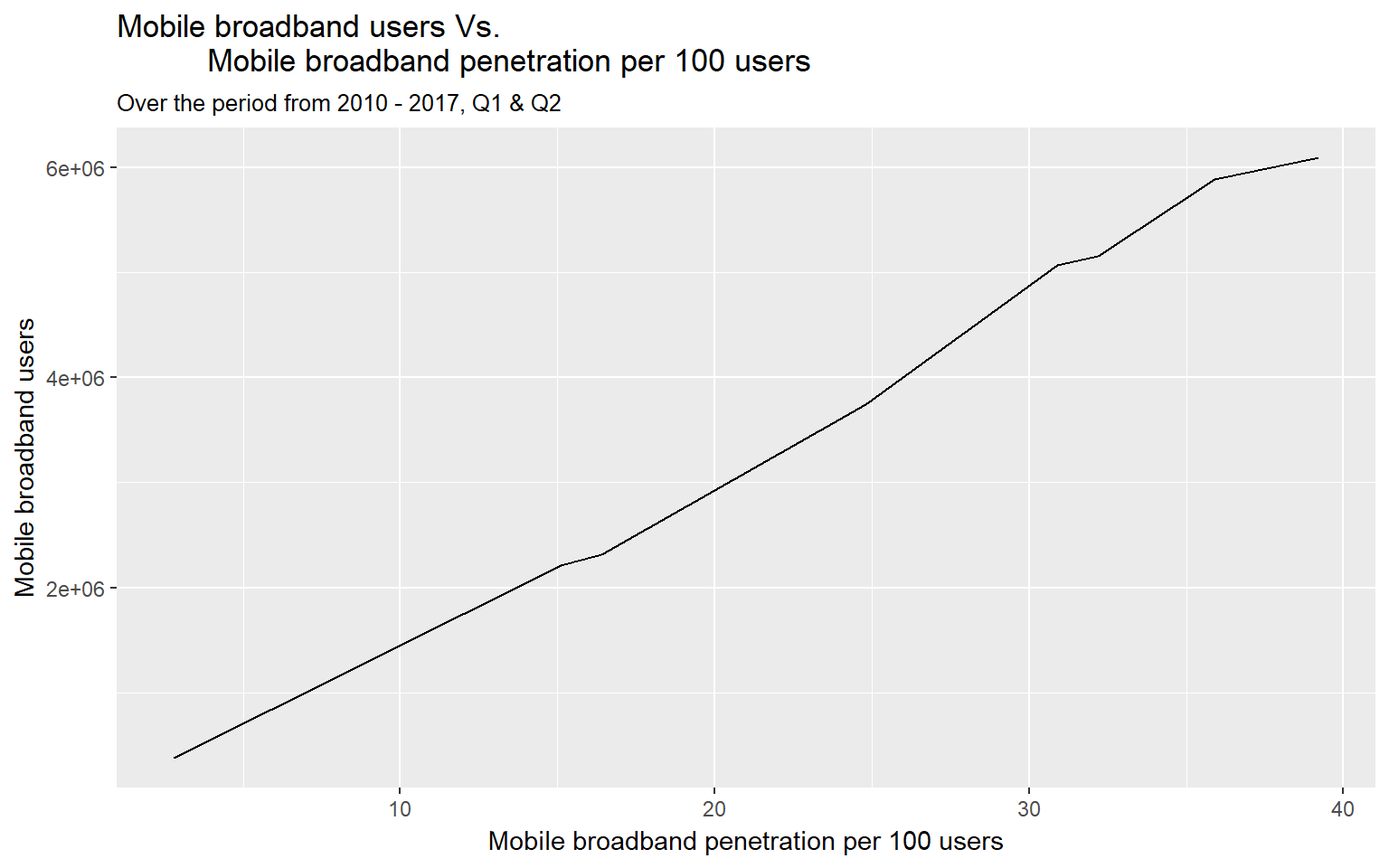
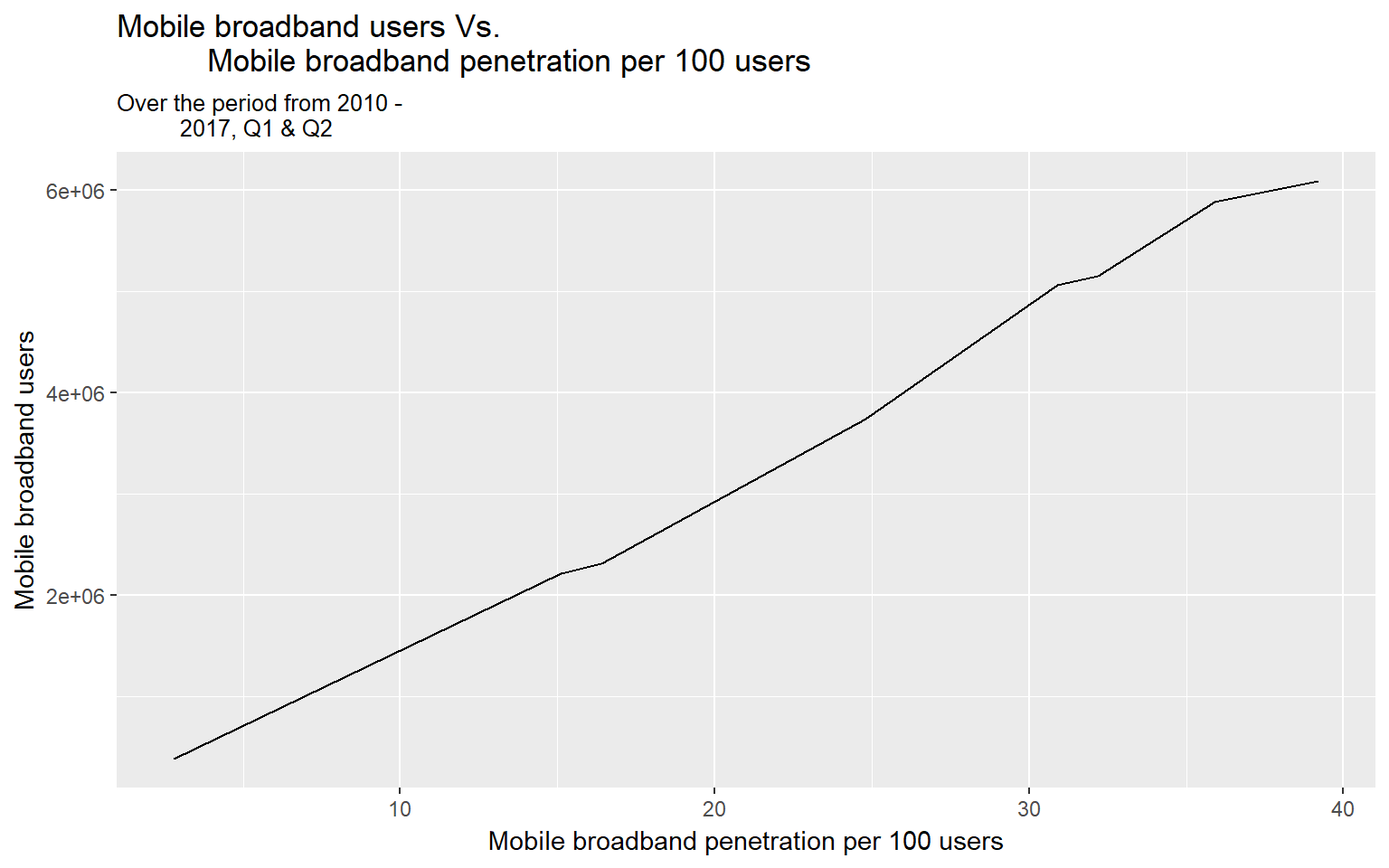
edits

diff --git a/content/post/2017-09-27-mobile-and-internet-penetration-in-zambia.html b/content/post/2017-09-27-mobile-and-internet-penetration-in-zambia.html
@@ -29,8 +29,9 @@ fig_height: 4
 <pre class="r"><code># the packages can be installed running the following command
 # install.packges(&quot;ggplot2&quot;, &quot;dplyr&quot;, &quot;readr&quot;, &quot;plotly&quot;)
 library(ggplot2)
-library(dplyr)
-library(readr)
+library(dplyr)</code></pre>
+<pre><code>## Warning: package &#39;dplyr&#39; was built under R version 3.4.2</code></pre>
+<pre class="r"><code>library(readr)
 library(plotly)</code></pre>
 </div>
 <div id="data" class="section level2">
@@ -96,11 +97,7 @@ head(network_coverage, 4)</code></pre>
 </div>
 <div id="second-quarter-statistics-from-zicta" class="section level2">
 <h2>Second quarter statistics from ZICTA</h2>
-<p>ZICTA provides the following statistics on ICT as of the second quarter of 2017, as seen below.From these statistics, it can be seen that mobile subsription is slightly under 12.5 million suscribers, representing a penetration rate of 75.77%. On the internet side, a penetration rate is more than a third standing at 35.88%.</p>
-<div class="figure">
-<img src="https://user-images.githubusercontent.com/24398851/31039423-3acc0a34-a586-11e7-9285-78a08b5d4cd2.png" alt="Source: ZICTA" />
-<p class="caption">Source: ZICTA</p>
-</div>
+<p>ZICTA provides the following statistics on ICT as of the second quarter of 2017, as seen below.From these statistics, it can be seen that mobile subsription is slightly under 12.5 million suscribers, representing a penetration rate of 75.77%. On the internet side, a penetration rate is more than a third standing at 35.88%. <centre> <img src="https://user-images.githubusercontent.com/24398851/31039423-3acc0a34-a586-11e7-9285-78a08b5d4cd2.png" alt="Source: ZICTA" /> </centre></p>
 </div>
 <div id="number-of-active-users" class="section level2">
 <h2>Number of active users</h2>
@@ -149,26 +146,97 @@ head(network_coverage, 4)</code></pre>
 <pre class="r"><code>per_change &lt;- operator_stats %&gt;% 
   select(Year,Population_CSO_Estimate,
          Number_of_active_Subscribers) %&gt;% 
-  mutate(Percentage_change = 
-           (Number_of_active_Subscribers -
+  mutate(Percentage_change_pop = (
+    Population_CSO_Estimate - lag(Population_CSO_Estimate))/ lag(Population_CSO_Estimate)*100,
+         
+         Percentage_change = (Number_of_active_Subscribers -
               lag(Number_of_active_Subscribers))/
            lag(Number_of_active_Subscribers) * 100
-           )  
-  names(per_change) &lt;- c(&quot;Year&quot;,&quot;Population&quot;, 
-                         &quot;Active subscribers&quot;, &quot;% change&quot;)
-  per_change</code></pre>
-<pre><code>## # A tibble: 9 x 4
-##    Year Population `Active subscribers` `% change`
-##   &lt;int&gt;      &lt;dbl&gt;                &lt;dbl&gt;      &lt;dbl&gt;
-## 1  2010   13092666              5447536         NA
-## 2  2011   13721498              8164553 49.8760724
-## 3  2012   14156468             10524676 28.9069469
-## 4  2013   14605555             10395801 -1.2245033
-## 5  2014   15068729             10114867 -2.7023795
-## 6  2015   15545778             11557725 14.2647254
-## 7  2016   16037474             12017034  3.9740433
-## 8  2017   16405229             11916871 -0.8335085
-## 9  2017   16405229             12429675  4.3031766</code></pre>
+            )  
+
+names(per_change) &lt;- c(&quot;Year&quot;,&quot;Population&quot;, &quot;Active subscribers&quot;,
+                       &quot;% change pop.&quot;, &quot;% change&quot;) 
+
+ knitr::kable(per_change, booktabs = TRUE, caption = 
+                &quot;Change in Population Vs. 
+              change in the Active subscribers&quot;)</code></pre>
+<table>
+<caption><span id="tab:unnamed-chunk-9">Table 1: </span>Change in Population Vs. change in the Active subscribers</caption>
+<thead>
+<tr class="header">
+<th align="right">Year</th>
+<th align="right">Population</th>
+<th align="right">Active subscribers</th>
+<th align="right">% change pop.</th>
+<th align="right">% change</th>
+</tr>
+</thead>
+<tbody>
+<tr class="odd">
+<td align="right">2010</td>
+<td align="right">13092666</td>
+<td align="right">5447536</td>
+<td align="right">NA</td>
+<td align="right">NA</td>
+</tr>
+<tr class="even">
+<td align="right">2011</td>
+<td align="right">13721498</td>
+<td align="right">8164553</td>
+<td align="right">4.802933</td>
+<td align="right">49.8760724</td>
+</tr>
+<tr class="odd">
+<td align="right">2012</td>
+<td align="right">14156468</td>
+<td align="right">10524676</td>
+<td align="right">3.169989</td>
+<td align="right">28.9069469</td>
+</tr>
+<tr class="even">
+<td align="right">2013</td>
+<td align="right">14605555</td>
+<td align="right">10395801</td>
+<td align="right">3.172310</td>
+<td align="right">-1.2245033</td>
+</tr>
+<tr class="odd">
+<td align="right">2014</td>
+<td align="right">15068729</td>
+<td align="right">10114867</td>
+<td align="right">3.171218</td>
+<td align="right">-2.7023795</td>
+</tr>
+<tr class="even">
+<td align="right">2015</td>
+<td align="right">15545778</td>
+<td align="right">11557725</td>
+<td align="right">3.165821</td>
+<td align="right">14.2647254</td>
+</tr>
+<tr class="odd">
+<td align="right">2016</td>
+<td align="right">16037474</td>
+<td align="right">12017034</td>
+<td align="right">3.162891</td>
+<td align="right">3.9740433</td>
+</tr>
+<tr class="even">
+<td align="right">2017</td>
+<td align="right">16405229</td>
+<td align="right">11916871</td>
+<td align="right">2.293098</td>
+<td align="right">-0.8335085</td>
+</tr>
+<tr class="odd">
+<td align="right">2017</td>
+<td align="right">16405229</td>
+<td align="right">12429675</td>
+<td align="right">0.000000</td>
+<td align="right">4.3031766</td>
+</tr>
+</tbody>
+</table>
 <p>In terms of the summary statistics, the active users mumbers have average 10,285,415 a year. Considering a population size of nearly 16 million, this is a decent uptake in active mobile users.</p>
 <pre class="r"><code>summary(operator_stats$Number_of_active_Subscribers)</code></pre>
 <pre><code>##     Min.  1st Qu.   Median     Mean  3rd Qu.     Max. 
@@ -239,7 +307,7 @@ ggplot() +
 knitr::kable(network_cover, booktabs = TRUE, 
              caption = &quot;Percentage network coverage by operator&quot;)  </code></pre>
 <table>
-<caption><span id="tab:unnamed-chunk-14">Table 1: </span>Percentage network coverage by operator</caption>
+<caption><span id="tab:unnamed-chunk-14">Table 2: </span>Percentage network coverage by operator</caption>
 <thead>
 <tr class="header">
 <th align="right">Year</th>
@@ -308,7 +376,8 @@ knitr::kable(network_cover, booktabs = TRUE,
 </div>
 <div id="internet-penetration" class="section level2">
 <h2>Internet Penetration</h2>
-<p><strong>Broadband users</strong> The broadband data which covers all those on Direct Subsriber Line,cable and optic fibre internet access, on average there are 3855730 users, with 75% of the users amounting to 5338910.</p>
+<p><strong>Broadband users</strong></p>
+<p>The broadband data which covers all those on Direct Subsriber Line,cable and optic fibre internet access, on average there are 3855730 users, with 75% of the users amounting to 5338910.</p>
 <pre class="r"><code>summary(operator_stats$Mobile_Broadband_users)</code></pre>
 <pre><code>##    Min. 1st Qu.  Median    Mean 3rd Qu.    Max.    NA&#39;s 
 ##  379888 2289147 4403005 3855730 5338910 6090412       1</code></pre>
@@ -322,7 +391,8 @@ knitr::kable(network_cover, booktabs = TRUE,
   ) + 
   ggtitle(&quot;Mobile broadband users Vs. 
           Mobile broadband penetration per 100 users&quot;,
-           subtitle = &quot;Over the period from 2010 - 2017, Q1 &amp; Q2&quot;)</code></pre>
+          subtitle = &quot;Over the period from 2010 - 
+          2017, Q1 &amp; Q2&quot;)</code></pre>
 <pre><code>## Warning: Removed 1 rows containing missing values (geom_path).</code></pre>
 <p><img src="/post/2017-09-27-mobile-and-internet-penetration-in-zambia_files/figure-html/unnamed-chunk-16-1.png" width="768" /></p>
 </div>
@@ -346,9 +416,9 @@ m &lt;- list(
   pad = 6
 )
 ggplotly(p, autosize = FALSE
-         ,width = 700, height = 500, margin = m)</code></pre>
-<div id="9ae0252b174" style="width:700px;height:500px;" class="plotly html-widget"></div>
-<script type="application/json" data-for="9ae0252b174">{"x":{"data":[{"x":[0.08,0.11,0.14,0.14,0.19,0.19,0.22,0.22,0.25],"y":[10267,15839,19795,17231,29349,31822,35919,36678,38316],"text":["Fixed_internet_Penetration_per_100: 0.08<br />Number_of_Subscribers: 10267","Fixed_internet_Penetration_per_100: 0.11<br />Number_of_Subscribers: 15839","Fixed_internet_Penetration_per_100: 0.14<br />Number_of_Subscribers: 19795","Fixed_internet_Penetration_per_100: 0.14<br />Number_of_Subscribers: 17231","Fixed_internet_Penetration_per_100: 0.19<br />Number_of_Subscribers: 29349","Fixed_internet_Penetration_per_100: 0.19<br />Number_of_Subscribers: 31822","Fixed_internet_Penetration_per_100: 0.22<br />Number_of_Subscribers: 35919","Fixed_internet_Penetration_per_100: 0.22<br />Number_of_Subscribers: 36678","Fixed_internet_Penetration_per_100: 0.25<br />Number_of_Subscribers: 38316"],"type":"scatter","mode":"lines","line":{"width":1.88976377952756,"color":"rgba(0,0,0,1)","dash":"solid"},"hoveron":"points","showlegend":false,"xaxis":"x","yaxis":"y","hoverinfo":"text","frame":null}],"layout":{"margin":{"t":45.2237442922374,"r":7.30593607305936,"b":41.6438356164384,"l":54.7945205479452},"plot_bgcolor":"rgba(235,235,235,1)","paper_bgcolor":"rgba(255,255,255,1)","font":{"color":"rgba(0,0,0,1)","family":"","size":14.6118721461187},"title":"Fixed internet penetration per 100 inhabitants Vs.<br />           Number of subscribers","titlefont":{"color":"rgba(0,0,0,1)","family":"","size":17.5342465753425},"xaxis":{"domain":[0,1],"type":"linear","autorange":false,"range":[0.0715,0.2585],"tickmode":"array","ticktext":["0.10","0.15","0.20","0.25"],"tickvals":[0.1,0.15,0.2,0.25],"categoryorder":"array","categoryarray":["0.10","0.15","0.20","0.25"],"nticks":null,"ticks":"outside","tickcolor":"rgba(51,51,51,1)","ticklen":3.65296803652968,"tickwidth":0.66417600664176,"showticklabels":true,"tickfont":{"color":"rgba(77,77,77,1)","family":"","size":11.689497716895},"tickangle":-0,"showline":false,"linecolor":null,"linewidth":0,"showgrid":true,"gridcolor":"rgba(255,255,255,1)","gridwidth":0.66417600664176,"zeroline":false,"anchor":"y","title":"Fixed internet penetration per 100 inhabitants","titlefont":{"color":"rgba(0,0,0,1)","family":"","size":14.6118721461187},"hoverformat":".2f"},"yaxis":{"domain":[0,1],"type":"linear","autorange":false,"range":[8864.55,39718.45],"tickmode":"array","ticktext":["10000","20000","30000"],"tickvals":[10000,20000,30000],"categoryorder":"array","categoryarray":["10000","20000","30000"],"nticks":null,"ticks":"outside","tickcolor":"rgba(51,51,51,1)","ticklen":3.65296803652968,"tickwidth":0.66417600664176,"showticklabels":true,"tickfont":{"color":"rgba(77,77,77,1)","family":"","size":11.689497716895},"tickangle":-0,"showline":false,"linecolor":null,"linewidth":0,"showgrid":true,"gridcolor":"rgba(255,255,255,1)","gridwidth":0.66417600664176,"zeroline":false,"anchor":"x","title":"Number of subscribers","titlefont":{"color":"rgba(0,0,0,1)","family":"","size":14.6118721461187},"hoverformat":".2f"},"shapes":[{"type":"rect","fillcolor":null,"line":{"color":null,"width":0,"linetype":[]},"yref":"paper","xref":"paper","x0":0,"x1":1,"y0":0,"y1":1}],"showlegend":false,"legend":{"bgcolor":"rgba(255,255,255,1)","bordercolor":"transparent","borderwidth":1.88976377952756,"font":{"color":"rgba(0,0,0,1)","family":"","size":11.689497716895}},"hovermode":"closest","width":700,"height":500,"barmode":"relative"},"config":{"doubleClick":"reset","modeBarButtonsToAdd":[{"name":"Collaborate","icon":{"width":1000,"ascent":500,"descent":-50,"path":"M487 375c7-10 9-23 5-36l-79-259c-3-12-11-23-22-31-11-8-22-12-35-12l-263 0c-15 0-29 5-43 15-13 10-23 23-28 37-5 13-5 25-1 37 0 0 0 3 1 7 1 5 1 8 1 11 0 2 0 4-1 6 0 3-1 5-1 6 1 2 2 4 3 6 1 2 2 4 4 6 2 3 4 5 5 7 5 7 9 16 13 26 4 10 7 19 9 26 0 2 0 5 0 9-1 4-1 6 0 8 0 2 2 5 4 8 3 3 5 5 5 7 4 6 8 15 12 26 4 11 7 19 7 26 1 1 0 4 0 9-1 4-1 7 0 8 1 2 3 5 6 8 4 4 6 6 6 7 4 5 8 13 13 24 4 11 7 20 7 28 1 1 0 4 0 7-1 3-1 6-1 7 0 2 1 4 3 6 1 1 3 4 5 6 2 3 3 5 5 6 1 2 3 5 4 9 2 3 3 7 5 10 1 3 2 6 4 10 2 4 4 7 6 9 2 3 4 5 7 7 3 2 7 3 11 3 3 0 8 0 13-1l0-1c7 2 12 2 14 2l218 0c14 0 25-5 32-16 8-10 10-23 6-37l-79-259c-7-22-13-37-20-43-7-7-19-10-37-10l-248 0c-5 0-9-2-11-5-2-3-2-7 0-12 4-13 18-20 41-20l264 0c5 0 10 2 16 5 5 3 8 6 10 11l85 282c2 5 2 10 2 17 7-3 13-7 17-13z m-304 0c-1-3-1-5 0-7 1-1 3-2 6-2l174 0c2 0 4 1 7 2 2 2 4 4 5 7l6 18c0 3 0 5-1 7-1 1-3 2-6 2l-173 0c-3 0-5-1-8-2-2-2-4-4-4-7z m-24-73c-1-3-1-5 0-7 2-2 3-2 6-2l174 0c2 0 5 0 7 2 3 2 4 4 5 7l6 18c1 2 0 5-1 6-1 2-3 3-5 3l-174 0c-3 0-5-1-7-3-3-1-4-4-5-6z"},"click":"function(gd) { \n        // is this being viewed in RStudio?\n        if (location.search == '?viewer_pane=1') {\n          alert('To learn about plotly for collaboration, visit:\\n https://cpsievert.github.io/plotly_book/plot-ly-for-collaboration.html');\n        } else {\n          window.open('https://cpsievert.github.io/plotly_book/plot-ly-for-collaboration.html', '_blank');\n        }\n      }"}],"cloud":false},"source":"A","attrs":{"9ae0322b4d64":{"x":{},"y":{},"type":"scatter"}},"cur_data":"9ae0322b4d64","visdat":{"9ae0322b4d64":["function (y) ","x"]},"highlight":{"on":"plotly_click","persistent":false,"dynamic":false,"selectize":false,"opacityDim":0.2,"selected":{"opacity":1}},"base_url":"https://plot.ly"},"evals":["config.modeBarButtonsToAdd.0.click"],"jsHooks":{"render":[{"code":"function(el, x) { var ctConfig = crosstalk.var('plotlyCrosstalkOpts').set({\"on\":\"plotly_click\",\"persistent\":false,\"dynamic\":false,\"selectize\":false,\"opacityDim\":0.2,\"selected\":{\"opacity\":1}}); }","data":null}]}}</script>
+         ,width = 600, height = 400, margin = m)</code></pre>
+<div id="d4fc4cbbfe9" style="width:600px;height:400px;" class="plotly html-widget"></div>
+<script type="application/json" data-for="d4fc4cbbfe9">{"x":{"data":[{"x":[0.08,0.11,0.14,0.14,0.19,0.19,0.22,0.22,0.25],"y":[10267,15839,19795,17231,29349,31822,35919,36678,38316],"text":["Fixed_internet_Penetration_per_100: 0.08<br />Number_of_Subscribers: 10267","Fixed_internet_Penetration_per_100: 0.11<br />Number_of_Subscribers: 15839","Fixed_internet_Penetration_per_100: 0.14<br />Number_of_Subscribers: 19795","Fixed_internet_Penetration_per_100: 0.14<br />Number_of_Subscribers: 17231","Fixed_internet_Penetration_per_100: 0.19<br />Number_of_Subscribers: 29349","Fixed_internet_Penetration_per_100: 0.19<br />Number_of_Subscribers: 31822","Fixed_internet_Penetration_per_100: 0.22<br />Number_of_Subscribers: 35919","Fixed_internet_Penetration_per_100: 0.22<br />Number_of_Subscribers: 36678","Fixed_internet_Penetration_per_100: 0.25<br />Number_of_Subscribers: 38316"],"type":"scatter","mode":"lines","line":{"width":1.88976377952756,"color":"rgba(0,0,0,1)","dash":"solid"},"hoveron":"points","showlegend":false,"xaxis":"x","yaxis":"y","hoverinfo":"text","frame":null}],"layout":{"margin":{"t":45.2237442922374,"r":7.30593607305936,"b":41.6438356164384,"l":54.7945205479452},"plot_bgcolor":"rgba(235,235,235,1)","paper_bgcolor":"rgba(255,255,255,1)","font":{"color":"rgba(0,0,0,1)","family":"","size":14.6118721461187},"title":"Fixed internet penetration per 100 inhabitants Vs.<br />           Number of subscribers","titlefont":{"color":"rgba(0,0,0,1)","family":"","size":17.5342465753425},"xaxis":{"domain":[0,1],"type":"linear","autorange":false,"range":[0.0715,0.2585],"tickmode":"array","ticktext":["0.10","0.15","0.20","0.25"],"tickvals":[0.1,0.15,0.2,0.25],"categoryorder":"array","categoryarray":["0.10","0.15","0.20","0.25"],"nticks":null,"ticks":"outside","tickcolor":"rgba(51,51,51,1)","ticklen":3.65296803652968,"tickwidth":0.66417600664176,"showticklabels":true,"tickfont":{"color":"rgba(77,77,77,1)","family":"","size":11.689497716895},"tickangle":-0,"showline":false,"linecolor":null,"linewidth":0,"showgrid":true,"gridcolor":"rgba(255,255,255,1)","gridwidth":0.66417600664176,"zeroline":false,"anchor":"y","title":"Fixed internet penetration per 100 inhabitants","titlefont":{"color":"rgba(0,0,0,1)","family":"","size":14.6118721461187},"hoverformat":".2f"},"yaxis":{"domain":[0,1],"type":"linear","autorange":false,"range":[8864.55,39718.45],"tickmode":"array","ticktext":["10000","20000","30000"],"tickvals":[10000,20000,30000],"categoryorder":"array","categoryarray":["10000","20000","30000"],"nticks":null,"ticks":"outside","tickcolor":"rgba(51,51,51,1)","ticklen":3.65296803652968,"tickwidth":0.66417600664176,"showticklabels":true,"tickfont":{"color":"rgba(77,77,77,1)","family":"","size":11.689497716895},"tickangle":-0,"showline":false,"linecolor":null,"linewidth":0,"showgrid":true,"gridcolor":"rgba(255,255,255,1)","gridwidth":0.66417600664176,"zeroline":false,"anchor":"x","title":"Number of subscribers","titlefont":{"color":"rgba(0,0,0,1)","family":"","size":14.6118721461187},"hoverformat":".2f"},"shapes":[{"type":"rect","fillcolor":null,"line":{"color":null,"width":0,"linetype":[]},"yref":"paper","xref":"paper","x0":0,"x1":1,"y0":0,"y1":1}],"showlegend":false,"legend":{"bgcolor":"rgba(255,255,255,1)","bordercolor":"transparent","borderwidth":1.88976377952756,"font":{"color":"rgba(0,0,0,1)","family":"","size":11.689497716895}},"hovermode":"closest","width":600,"height":400,"barmode":"relative"},"config":{"doubleClick":"reset","modeBarButtonsToAdd":[{"name":"Collaborate","icon":{"width":1000,"ascent":500,"descent":-50,"path":"M487 375c7-10 9-23 5-36l-79-259c-3-12-11-23-22-31-11-8-22-12-35-12l-263 0c-15 0-29 5-43 15-13 10-23 23-28 37-5 13-5 25-1 37 0 0 0 3 1 7 1 5 1 8 1 11 0 2 0 4-1 6 0 3-1 5-1 6 1 2 2 4 3 6 1 2 2 4 4 6 2 3 4 5 5 7 5 7 9 16 13 26 4 10 7 19 9 26 0 2 0 5 0 9-1 4-1 6 0 8 0 2 2 5 4 8 3 3 5 5 5 7 4 6 8 15 12 26 4 11 7 19 7 26 1 1 0 4 0 9-1 4-1 7 0 8 1 2 3 5 6 8 4 4 6 6 6 7 4 5 8 13 13 24 4 11 7 20 7 28 1 1 0 4 0 7-1 3-1 6-1 7 0 2 1 4 3 6 1 1 3 4 5 6 2 3 3 5 5 6 1 2 3 5 4 9 2 3 3 7 5 10 1 3 2 6 4 10 2 4 4 7 6 9 2 3 4 5 7 7 3 2 7 3 11 3 3 0 8 0 13-1l0-1c7 2 12 2 14 2l218 0c14 0 25-5 32-16 8-10 10-23 6-37l-79-259c-7-22-13-37-20-43-7-7-19-10-37-10l-248 0c-5 0-9-2-11-5-2-3-2-7 0-12 4-13 18-20 41-20l264 0c5 0 10 2 16 5 5 3 8 6 10 11l85 282c2 5 2 10 2 17 7-3 13-7 17-13z m-304 0c-1-3-1-5 0-7 1-1 3-2 6-2l174 0c2 0 4 1 7 2 2 2 4 4 5 7l6 18c0 3 0 5-1 7-1 1-3 2-6 2l-173 0c-3 0-5-1-8-2-2-2-4-4-4-7z m-24-73c-1-3-1-5 0-7 2-2 3-2 6-2l174 0c2 0 5 0 7 2 3 2 4 4 5 7l6 18c1 2 0 5-1 6-1 2-3 3-5 3l-174 0c-3 0-5-1-7-3-3-1-4-4-5-6z"},"click":"function(gd) { \n        // is this being viewed in RStudio?\n        if (location.search == '?viewer_pane=1') {\n          alert('To learn about plotly for collaboration, visit:\\n https://cpsievert.github.io/plotly_book/plot-ly-for-collaboration.html');\n        } else {\n          window.open('https://cpsievert.github.io/plotly_book/plot-ly-for-collaboration.html', '_blank');\n        }\n      }"}],"cloud":false},"source":"A","attrs":{"d4fc776f4b52":{"x":{},"y":{},"type":"scatter"}},"cur_data":"d4fc776f4b52","visdat":{"d4fc776f4b52":["function (y) ","x"]},"highlight":{"on":"plotly_click","persistent":false,"dynamic":false,"selectize":false,"opacityDim":0.2,"selected":{"opacity":1}},"base_url":"https://plot.ly"},"evals":["config.modeBarButtonsToAdd.0.click"],"jsHooks":{"render":[{"code":"function(el, x) { var ctConfig = crosstalk.var('plotlyCrosstalkOpts').set({\"on\":\"plotly_click\",\"persistent\":false,\"dynamic\":false,\"selectize\":false,\"opacityDim\":0.2,\"selected\":{\"opacity\":1}}); }","data":null}]}}</script>
 </div>
 <div id="cost-differentials" class="section level2">
 <h2>Cost differentials</h2>
@@ -411,10 +481,10 @@ ggplotly(p, autosize = FALSE
 
 plot_ly(operator_stats,x = ~Population_CSO_Estimate,
         y = ~Number_of_active_Subscribers, mode = &#39;lines&#39;,
-        autosize = FALSE,width = 500, height = 500, margin = m) </code></pre>
+        autosize = FALSE,width = 500, height = 400, margin = m) </code></pre>
 <pre><code>## Warning: &#39;scatter&#39; objects don&#39;t have these attributes: &#39;autosize&#39;, &#39;margin&#39;
 ## Valid attributes include:
 ## &#39;type&#39;, &#39;visible&#39;, &#39;showlegend&#39;, &#39;legendgroup&#39;, &#39;opacity&#39;, &#39;name&#39;, &#39;uid&#39;, &#39;ids&#39;, &#39;customdata&#39;, &#39;hoverinfo&#39;, &#39;hoverlabel&#39;, &#39;stream&#39;, &#39;x&#39;, &#39;x0&#39;, &#39;dx&#39;, &#39;y&#39;, &#39;y0&#39;, &#39;dy&#39;, &#39;text&#39;, &#39;hovertext&#39;, &#39;mode&#39;, &#39;hoveron&#39;, &#39;line&#39;, &#39;connectgaps&#39;, &#39;cliponaxis&#39;, &#39;fill&#39;, &#39;fillcolor&#39;, &#39;marker&#39;, &#39;textposition&#39;, &#39;textfont&#39;, &#39;r&#39;, &#39;t&#39;, &#39;error_y&#39;, &#39;error_x&#39;, &#39;xaxis&#39;, &#39;yaxis&#39;, &#39;xcalendar&#39;, &#39;ycalendar&#39;, &#39;idssrc&#39;, &#39;customdatasrc&#39;, &#39;hoverinfosrc&#39;, &#39;xsrc&#39;, &#39;ysrc&#39;, &#39;textsrc&#39;, &#39;hovertextsrc&#39;, &#39;textpositionsrc&#39;, &#39;rsrc&#39;, &#39;tsrc&#39;, &#39;key&#39;, &#39;set&#39;, &#39;frame&#39;, &#39;transforms&#39;, &#39;_isNestedKey&#39;, &#39;_isSimpleKey&#39;, &#39;_isGraticule&#39;</code></pre>
-<div id="9ae06d015f0b" style="width:500px;height:500px;" class="plotly html-widget"></div>
-<script type="application/json" data-for="9ae06d015f0b">{"x":{"visdat":{"9ae0413d4263":["function () ","plotlyVisDat"]},"cur_data":"9ae0413d4263","attrs":{"9ae0413d4263":{"x":{},"y":{},"mode":"lines","autosize":false,"margin":{"l":60,"r":60,"b":120,"t":120,"pad":6},"alpha":1,"sizes":[10,100]}},"layout":{"width":500,"height":500,"margin":{"b":40,"l":60,"t":25,"r":10},"xaxis":{"domain":[0,1],"title":"Population_CSO_Estimate"},"yaxis":{"domain":[0,1],"title":"Number_of_active_Subscribers"},"hovermode":"closest","showlegend":false},"source":"A","config":{"modeBarButtonsToAdd":[{"name":"Collaborate","icon":{"width":1000,"ascent":500,"descent":-50,"path":"M487 375c7-10 9-23 5-36l-79-259c-3-12-11-23-22-31-11-8-22-12-35-12l-263 0c-15 0-29 5-43 15-13 10-23 23-28 37-5 13-5 25-1 37 0 0 0 3 1 7 1 5 1 8 1 11 0 2 0 4-1 6 0 3-1 5-1 6 1 2 2 4 3 6 1 2 2 4 4 6 2 3 4 5 5 7 5 7 9 16 13 26 4 10 7 19 9 26 0 2 0 5 0 9-1 4-1 6 0 8 0 2 2 5 4 8 3 3 5 5 5 7 4 6 8 15 12 26 4 11 7 19 7 26 1 1 0 4 0 9-1 4-1 7 0 8 1 2 3 5 6 8 4 4 6 6 6 7 4 5 8 13 13 24 4 11 7 20 7 28 1 1 0 4 0 7-1 3-1 6-1 7 0 2 1 4 3 6 1 1 3 4 5 6 2 3 3 5 5 6 1 2 3 5 4 9 2 3 3 7 5 10 1 3 2 6 4 10 2 4 4 7 6 9 2 3 4 5 7 7 3 2 7 3 11 3 3 0 8 0 13-1l0-1c7 2 12 2 14 2l218 0c14 0 25-5 32-16 8-10 10-23 6-37l-79-259c-7-22-13-37-20-43-7-7-19-10-37-10l-248 0c-5 0-9-2-11-5-2-3-2-7 0-12 4-13 18-20 41-20l264 0c5 0 10 2 16 5 5 3 8 6 10 11l85 282c2 5 2 10 2 17 7-3 13-7 17-13z m-304 0c-1-3-1-5 0-7 1-1 3-2 6-2l174 0c2 0 4 1 7 2 2 2 4 4 5 7l6 18c0 3 0 5-1 7-1 1-3 2-6 2l-173 0c-3 0-5-1-8-2-2-2-4-4-4-7z m-24-73c-1-3-1-5 0-7 2-2 3-2 6-2l174 0c2 0 5 0 7 2 3 2 4 4 5 7l6 18c1 2 0 5-1 6-1 2-3 3-5 3l-174 0c-3 0-5-1-7-3-3-1-4-4-5-6z"},"click":"function(gd) { \n        // is this being viewed in RStudio?\n        if (location.search == '?viewer_pane=1') {\n          alert('To learn about plotly for collaboration, visit:\\n https://cpsievert.github.io/plotly_book/plot-ly-for-collaboration.html');\n        } else {\n          window.open('https://cpsievert.github.io/plotly_book/plot-ly-for-collaboration.html', '_blank');\n        }\n      }"}],"cloud":false},"data":[{"x":[13092666,13721498,14156468,14605555,15068729,15545778,16037474,16405229,16405229],"y":[5447536,8164553,10524676,10395801,10114867,11557725,12017034,11916871,12429675],"mode":"lines","autosize":false,"margin":{"l":60,"r":60,"b":120,"t":120,"pad":6},"type":"scatter","line":{"fillcolor":"rgba(31,119,180,1)","color":"rgba(31,119,180,1)"},"xaxis":"x","yaxis":"y","frame":null}],"highlight":{"on":"plotly_click","persistent":false,"dynamic":false,"selectize":false,"opacityDim":0.2,"selected":{"opacity":1}},"base_url":"https://plot.ly"},"evals":["config.modeBarButtonsToAdd.0.click"],"jsHooks":{"render":[{"code":"function(el, x) { var ctConfig = crosstalk.var('plotlyCrosstalkOpts').set({\"on\":\"plotly_click\",\"persistent\":false,\"dynamic\":false,\"selectize\":false,\"opacityDim\":0.2,\"selected\":{\"opacity\":1}}); }","data":null}]}}</script>
+<div id="d4fc770a75a4" style="width:500px;height:400px;" class="plotly html-widget"></div>
+<script type="application/json" data-for="d4fc770a75a4">{"x":{"visdat":{"d4fc193f6996":["function () ","plotlyVisDat"]},"cur_data":"d4fc193f6996","attrs":{"d4fc193f6996":{"x":{},"y":{},"mode":"lines","autosize":false,"margin":{"l":60,"r":60,"b":120,"t":120,"pad":6},"alpha":1,"sizes":[10,100]}},"layout":{"width":500,"height":400,"margin":{"b":40,"l":60,"t":25,"r":10},"xaxis":{"domain":[0,1],"title":"Population_CSO_Estimate"},"yaxis":{"domain":[0,1],"title":"Number_of_active_Subscribers"},"hovermode":"closest","showlegend":false},"source":"A","config":{"modeBarButtonsToAdd":[{"name":"Collaborate","icon":{"width":1000,"ascent":500,"descent":-50,"path":"M487 375c7-10 9-23 5-36l-79-259c-3-12-11-23-22-31-11-8-22-12-35-12l-263 0c-15 0-29 5-43 15-13 10-23 23-28 37-5 13-5 25-1 37 0 0 0 3 1 7 1 5 1 8 1 11 0 2 0 4-1 6 0 3-1 5-1 6 1 2 2 4 3 6 1 2 2 4 4 6 2 3 4 5 5 7 5 7 9 16 13 26 4 10 7 19 9 26 0 2 0 5 0 9-1 4-1 6 0 8 0 2 2 5 4 8 3 3 5 5 5 7 4 6 8 15 12 26 4 11 7 19 7 26 1 1 0 4 0 9-1 4-1 7 0 8 1 2 3 5 6 8 4 4 6 6 6 7 4 5 8 13 13 24 4 11 7 20 7 28 1 1 0 4 0 7-1 3-1 6-1 7 0 2 1 4 3 6 1 1 3 4 5 6 2 3 3 5 5 6 1 2 3 5 4 9 2 3 3 7 5 10 1 3 2 6 4 10 2 4 4 7 6 9 2 3 4 5 7 7 3 2 7 3 11 3 3 0 8 0 13-1l0-1c7 2 12 2 14 2l218 0c14 0 25-5 32-16 8-10 10-23 6-37l-79-259c-7-22-13-37-20-43-7-7-19-10-37-10l-248 0c-5 0-9-2-11-5-2-3-2-7 0-12 4-13 18-20 41-20l264 0c5 0 10 2 16 5 5 3 8 6 10 11l85 282c2 5 2 10 2 17 7-3 13-7 17-13z m-304 0c-1-3-1-5 0-7 1-1 3-2 6-2l174 0c2 0 4 1 7 2 2 2 4 4 5 7l6 18c0 3 0 5-1 7-1 1-3 2-6 2l-173 0c-3 0-5-1-8-2-2-2-4-4-4-7z m-24-73c-1-3-1-5 0-7 2-2 3-2 6-2l174 0c2 0 5 0 7 2 3 2 4 4 5 7l6 18c1 2 0 5-1 6-1 2-3 3-5 3l-174 0c-3 0-5-1-7-3-3-1-4-4-5-6z"},"click":"function(gd) { \n        // is this being viewed in RStudio?\n        if (location.search == '?viewer_pane=1') {\n          alert('To learn about plotly for collaboration, visit:\\n https://cpsievert.github.io/plotly_book/plot-ly-for-collaboration.html');\n        } else {\n          window.open('https://cpsievert.github.io/plotly_book/plot-ly-for-collaboration.html', '_blank');\n        }\n      }"}],"cloud":false},"data":[{"x":[13092666,13721498,14156468,14605555,15068729,15545778,16037474,16405229,16405229],"y":[5447536,8164553,10524676,10395801,10114867,11557725,12017034,11916871,12429675],"mode":"lines","autosize":false,"margin":{"l":60,"r":60,"b":120,"t":120,"pad":6},"type":"scatter","line":{"fillcolor":"rgba(31,119,180,1)","color":"rgba(31,119,180,1)"},"xaxis":"x","yaxis":"y","frame":null}],"highlight":{"on":"plotly_click","persistent":false,"dynamic":false,"selectize":false,"opacityDim":0.2,"selected":{"opacity":1}},"base_url":"https://plot.ly"},"evals":["config.modeBarButtonsToAdd.0.click"],"jsHooks":{"render":[{"code":"function(el, x) { var ctConfig = crosstalk.var('plotlyCrosstalkOpts').set({\"on\":\"plotly_click\",\"persistent\":false,\"dynamic\":false,\"selectize\":false,\"opacityDim\":0.2,\"selected\":{\"opacity\":1}}); }","data":null}]}}</script>
 </div>
